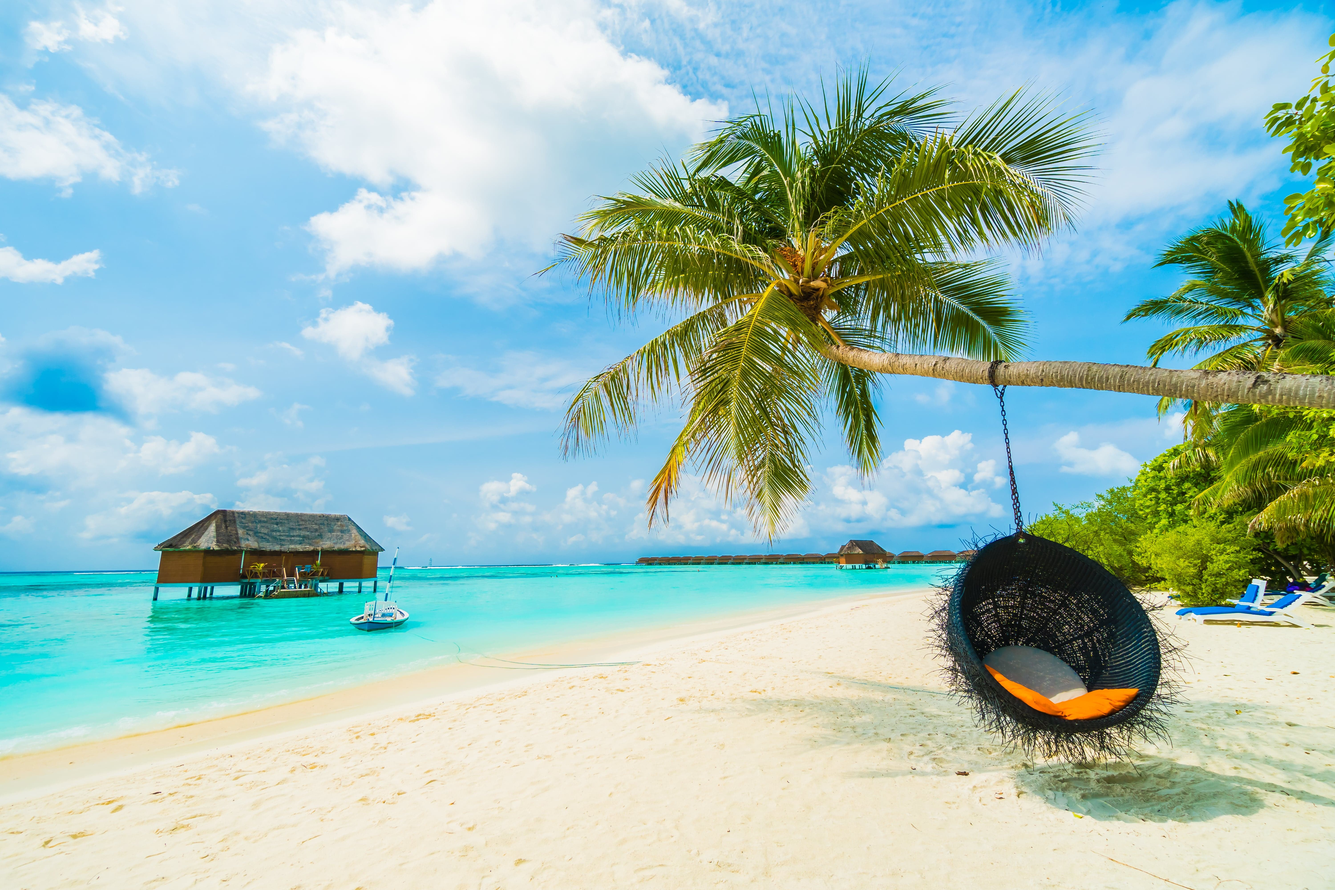
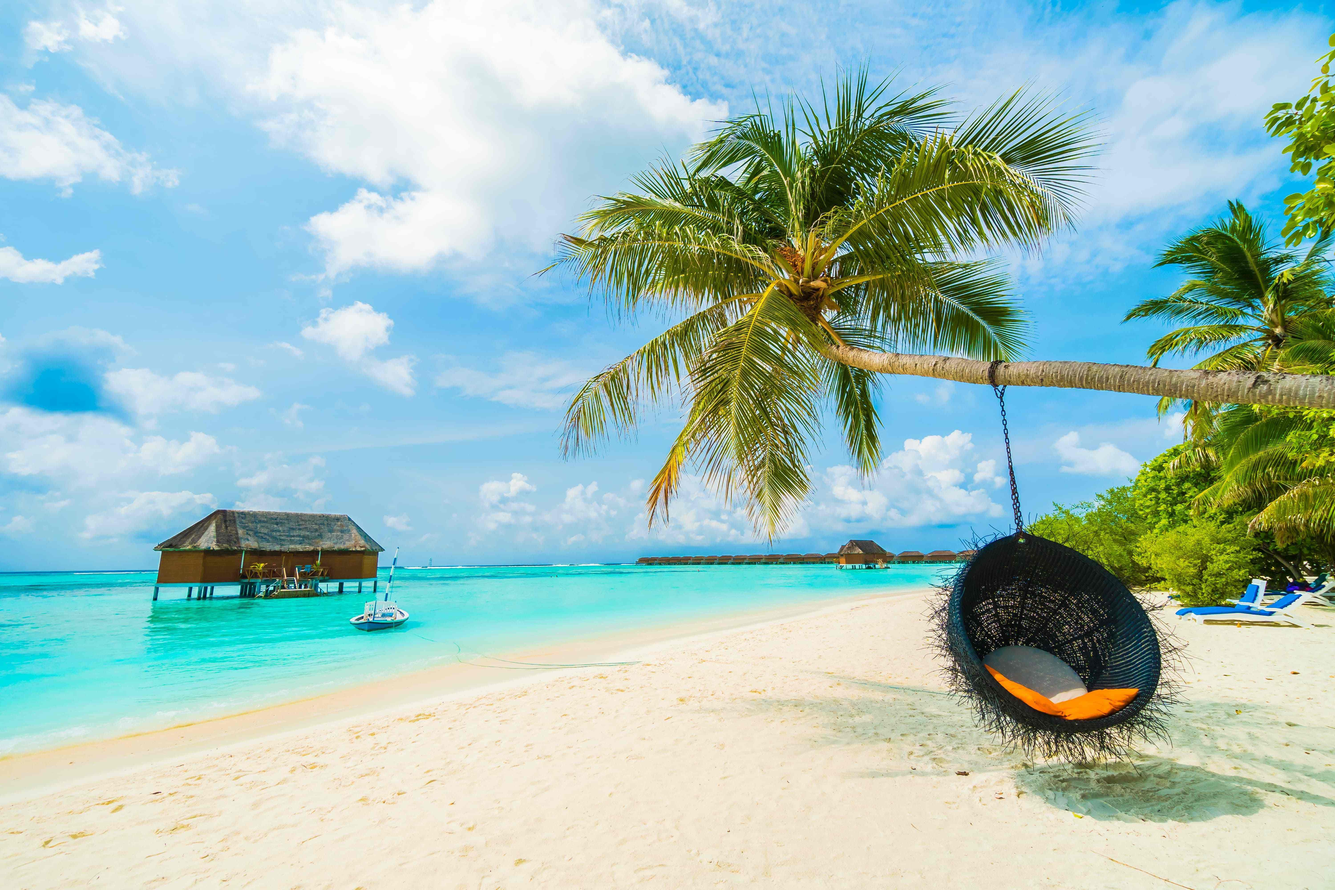
update api and background img

diff --git a/js/main.js b/js/main.js
@@ -104,14 +104,19 @@ $('document').ready(() => {
 
 
     const searchCountry = (input, searchText) => {
-        let url = `https://booking-engine.fare33.com/api/airport/autocomplete?term=${searchText}`;
         let suggestions = [];
-        fetch(url)
-            .then(resp => resp.json())
+        fetch(`https://tripadvisor1.p.rapidapi.com/airports/search?query=${searchText}`, {
+            "method": "GET",
+            "headers": {
+                "x-rapidapi-host": "tripadvisor1.p.rapidapi.com",
+                "x-rapidapi-key": "4833256de4msh821bf8fed67c3c1p1f7df4jsn04f9c41a9d82"
+            }
+        })
+        .then(resp => resp.json())
             .then(data => {
                 data.map((element) => {
 
-                    suggestions.push(`${element.Name},${element.City},${element.Country}`)
+                    suggestions.push(element.display_name)
                 })
                 autocomplete(input, suggestions)
             })
